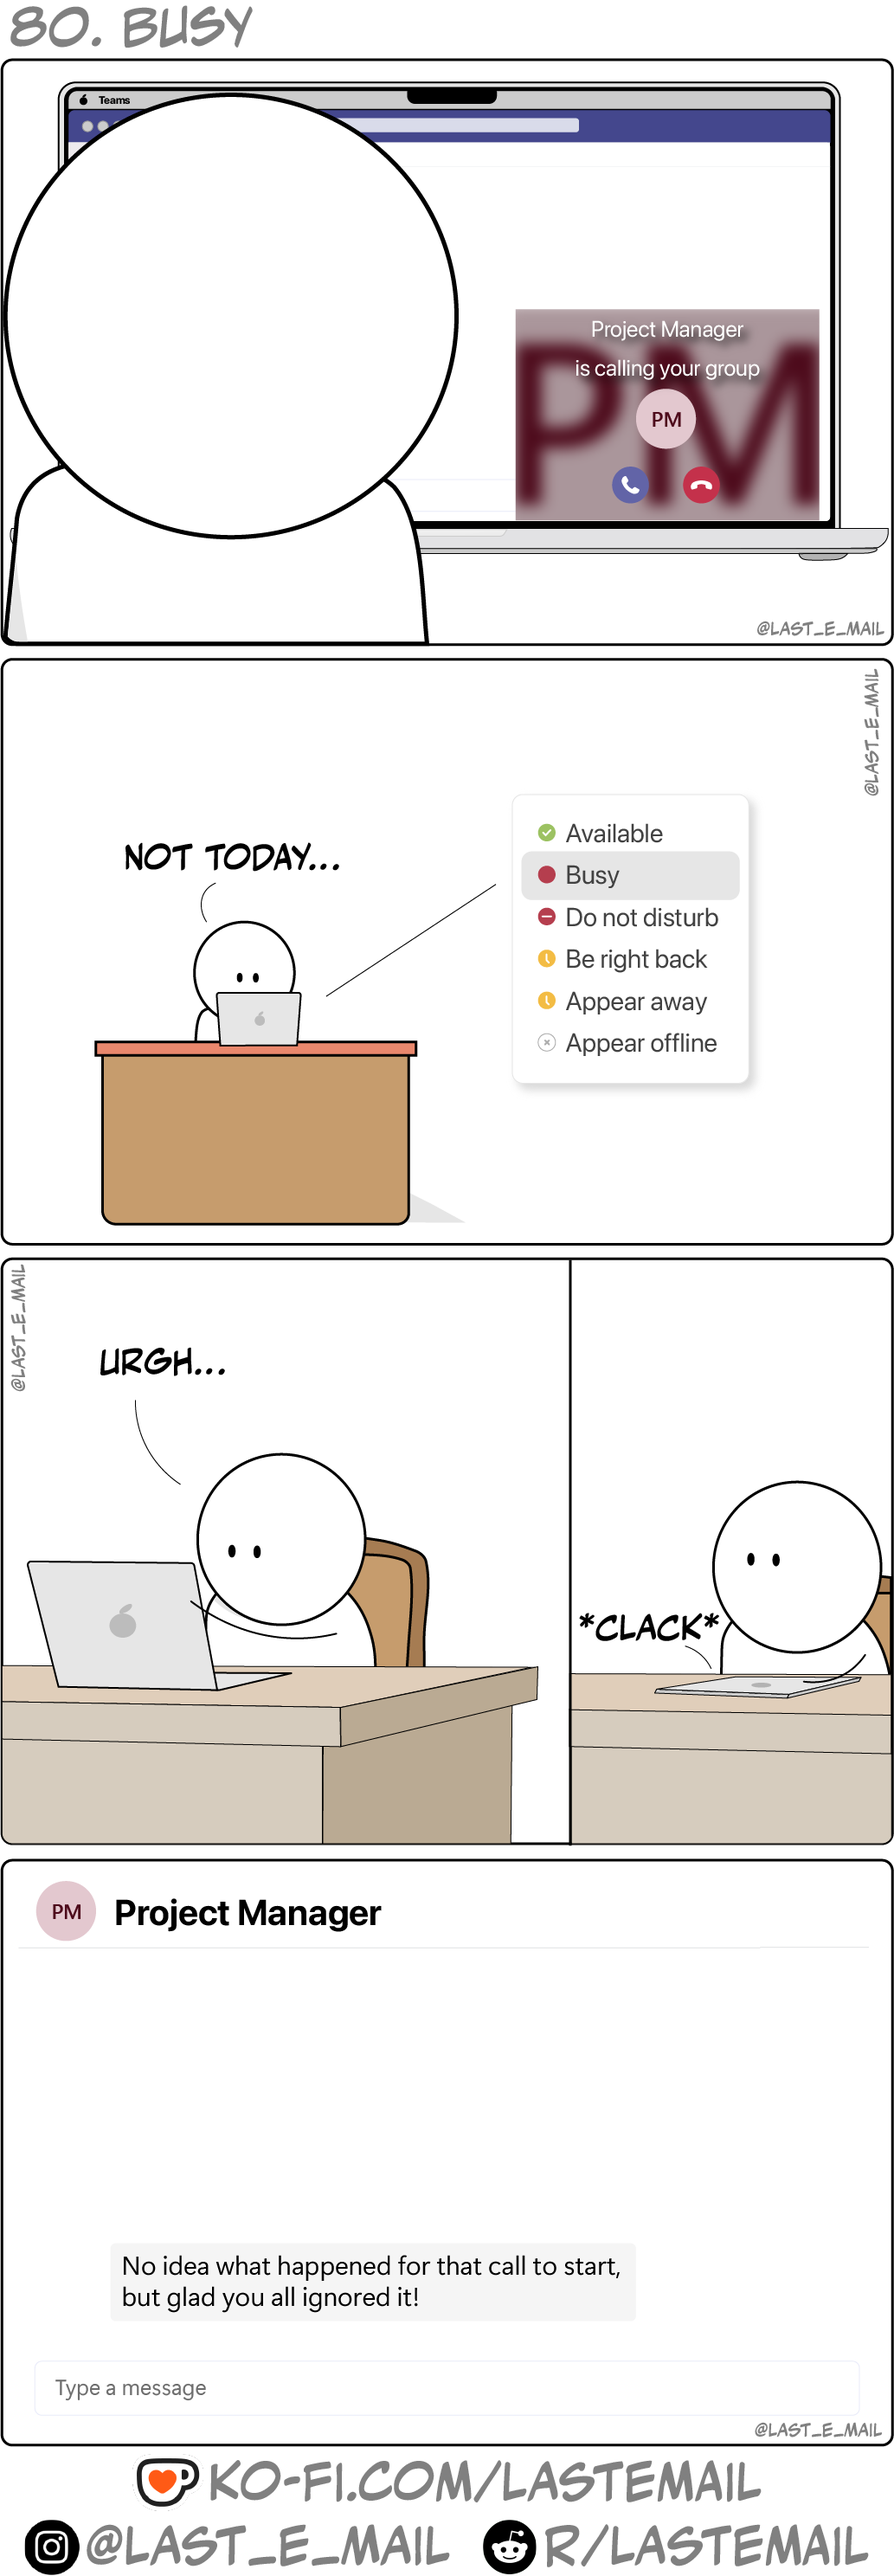
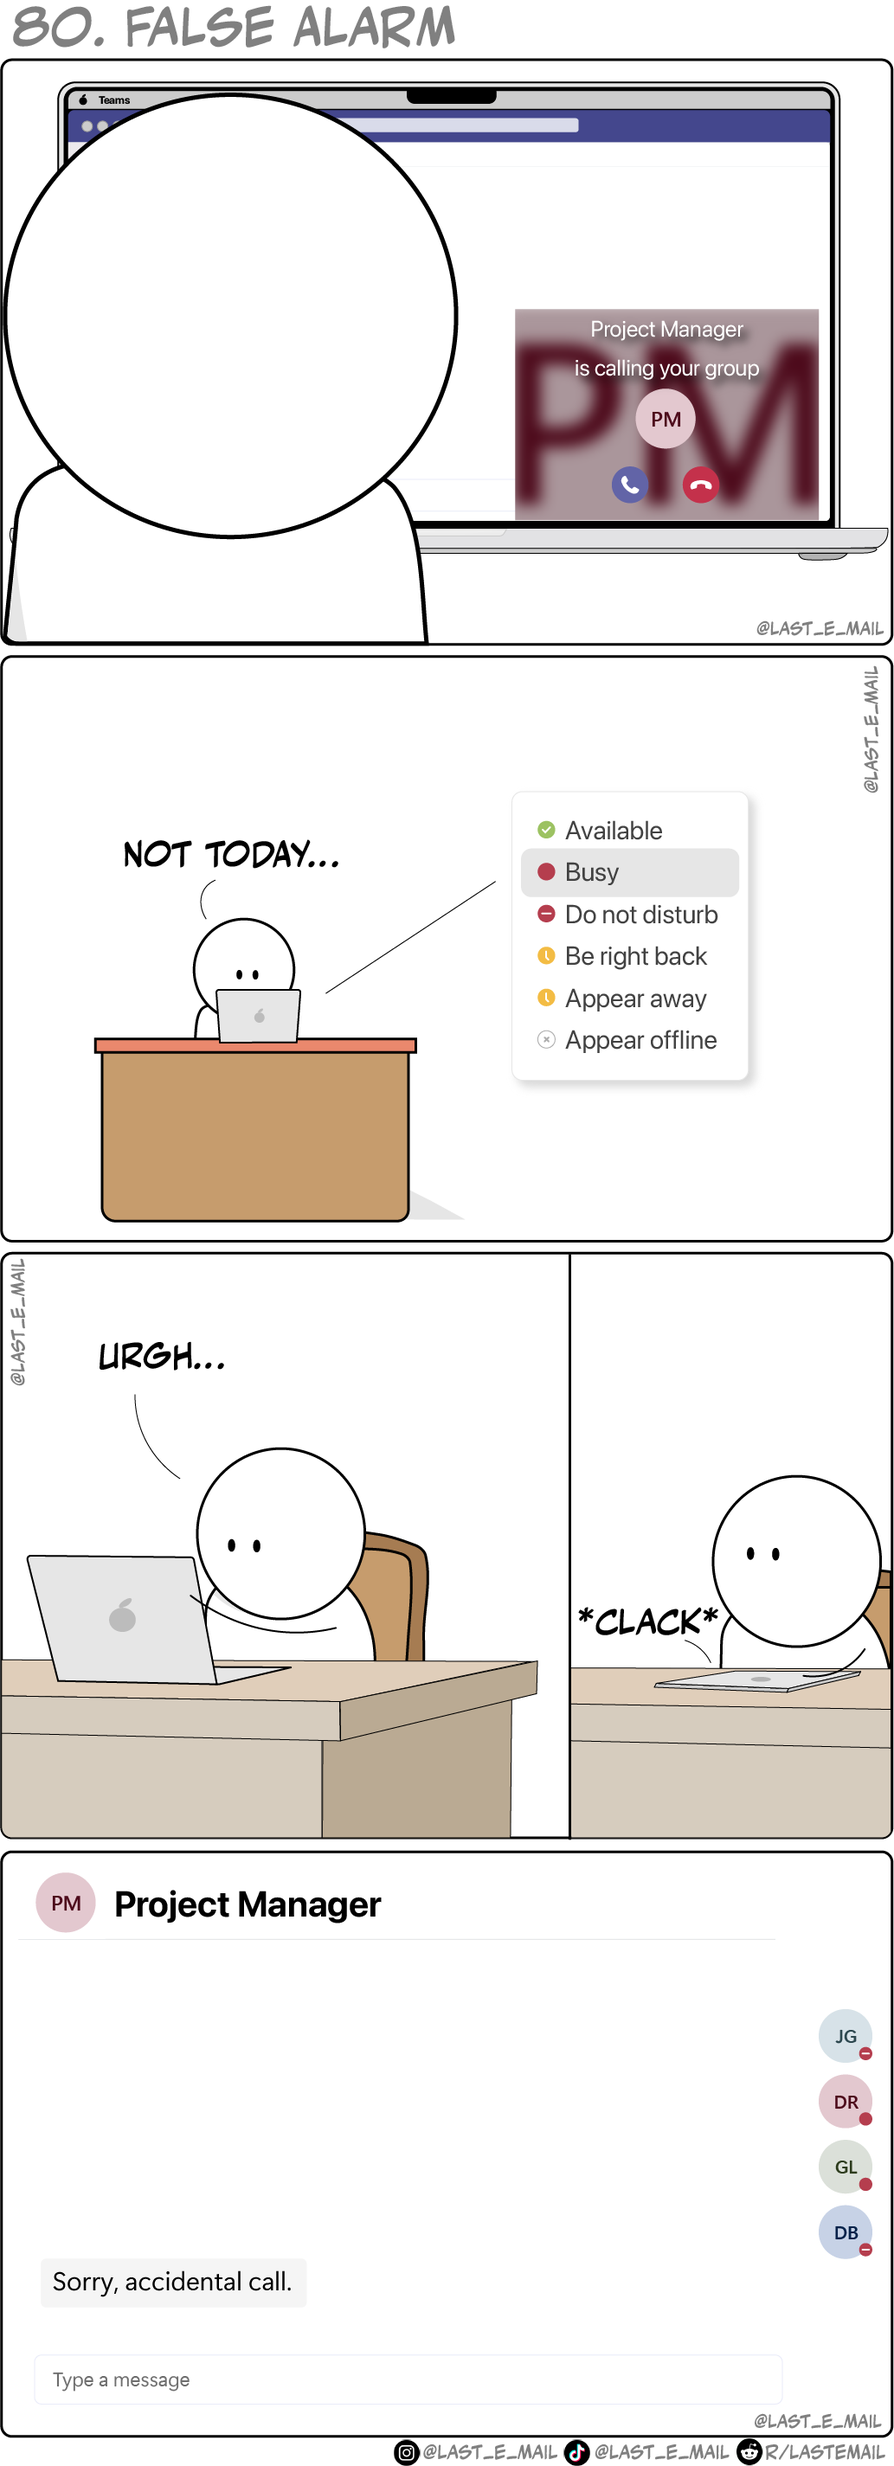
Updates 80, adds 125, 126.

diff --git a/comics/index.html b/comics/index.html
@@ -9,6 +9,8 @@
 <body>
     <div class="container">
         <h1>Comics</h1>
+        <a href="pages/126.html">126. Scope Management</a><br>
+        <a href="pages/125.html">125. Prioritisation</a><br>
         <a href="pages/124.html">124. Back Channel</a><br>
         <a href="pages/123.html">123. Working Relationships</a><br>
         <a href="pages/122.html">122. Authenticity</a><br>
@@ -53,7 +55,7 @@
         <a href="pages/83.html">83. Deep Dish Delusion</a><br>
         <a href="pages/82.html">82. Strategic Roadmap</a><br>
         <a href="pages/81.html">81. Independent Advice</a><br>
-        <a href="pages/80.html">80. Busy</a><br>
+        <a href="pages/80.html">80. False Alarm</a><br>
         <a href="pages/79.html">79. Paper Bag Policy</a><br>
         <a href="pages/78.html">78. How to Succeed as a Project Manager</a><br>
         <a href="pages/77.html">77. Workplace Recognition</a><br>

diff --git a/comics/pages/125.html b/comics/pages/125.html
@@ -9,11 +9,11 @@
 <body>
 
     <div class="container">
-        <h1>124. Back Channel</h1>
-        <img src="../images/124.png">
+        <h1>125. Prioritisation</h1>
+        <img src="../images/125.png">
         <hr>
-        <a href="../pages/123.html">< Previous</a>
-        <a href="../pages/125.html">Next ></a>
+        <a href="../pages/124.html">< Previous</a>
+        <a href="../pages/126.html">Next ></a>
     </div>
 </body>
 </html>

diff --git a/comics/pages/126.html b/comics/pages/126.html
@@ -9,11 +9,11 @@
 <body>
 
     <div class="container">
-        <h1>124. Back Channel</h1>
-        <img src="../images/124.png">
+        <h1>126. Scope Management</h1>
+        <img src="../images/126.png">
         <hr>
-        <a href="../pages/123.html">< Previous</a>
-        <a href="../pages/125.html">Next ></a>
+        <a href="../pages/125.html">< Previous</a>
+
     </div>
 </body>
 </html>

diff --git a/comics/pages/80.html b/comics/pages/80.html
@@ -9,7 +9,7 @@
 <body>
 
     <div class="container">
-        <h1>80. Busy</h1>
+        <h1>80. False Alarm</h1>
         <img src="../images/80.png">
         <hr>
         <a href="../pages/79.html">< Previous</a>
